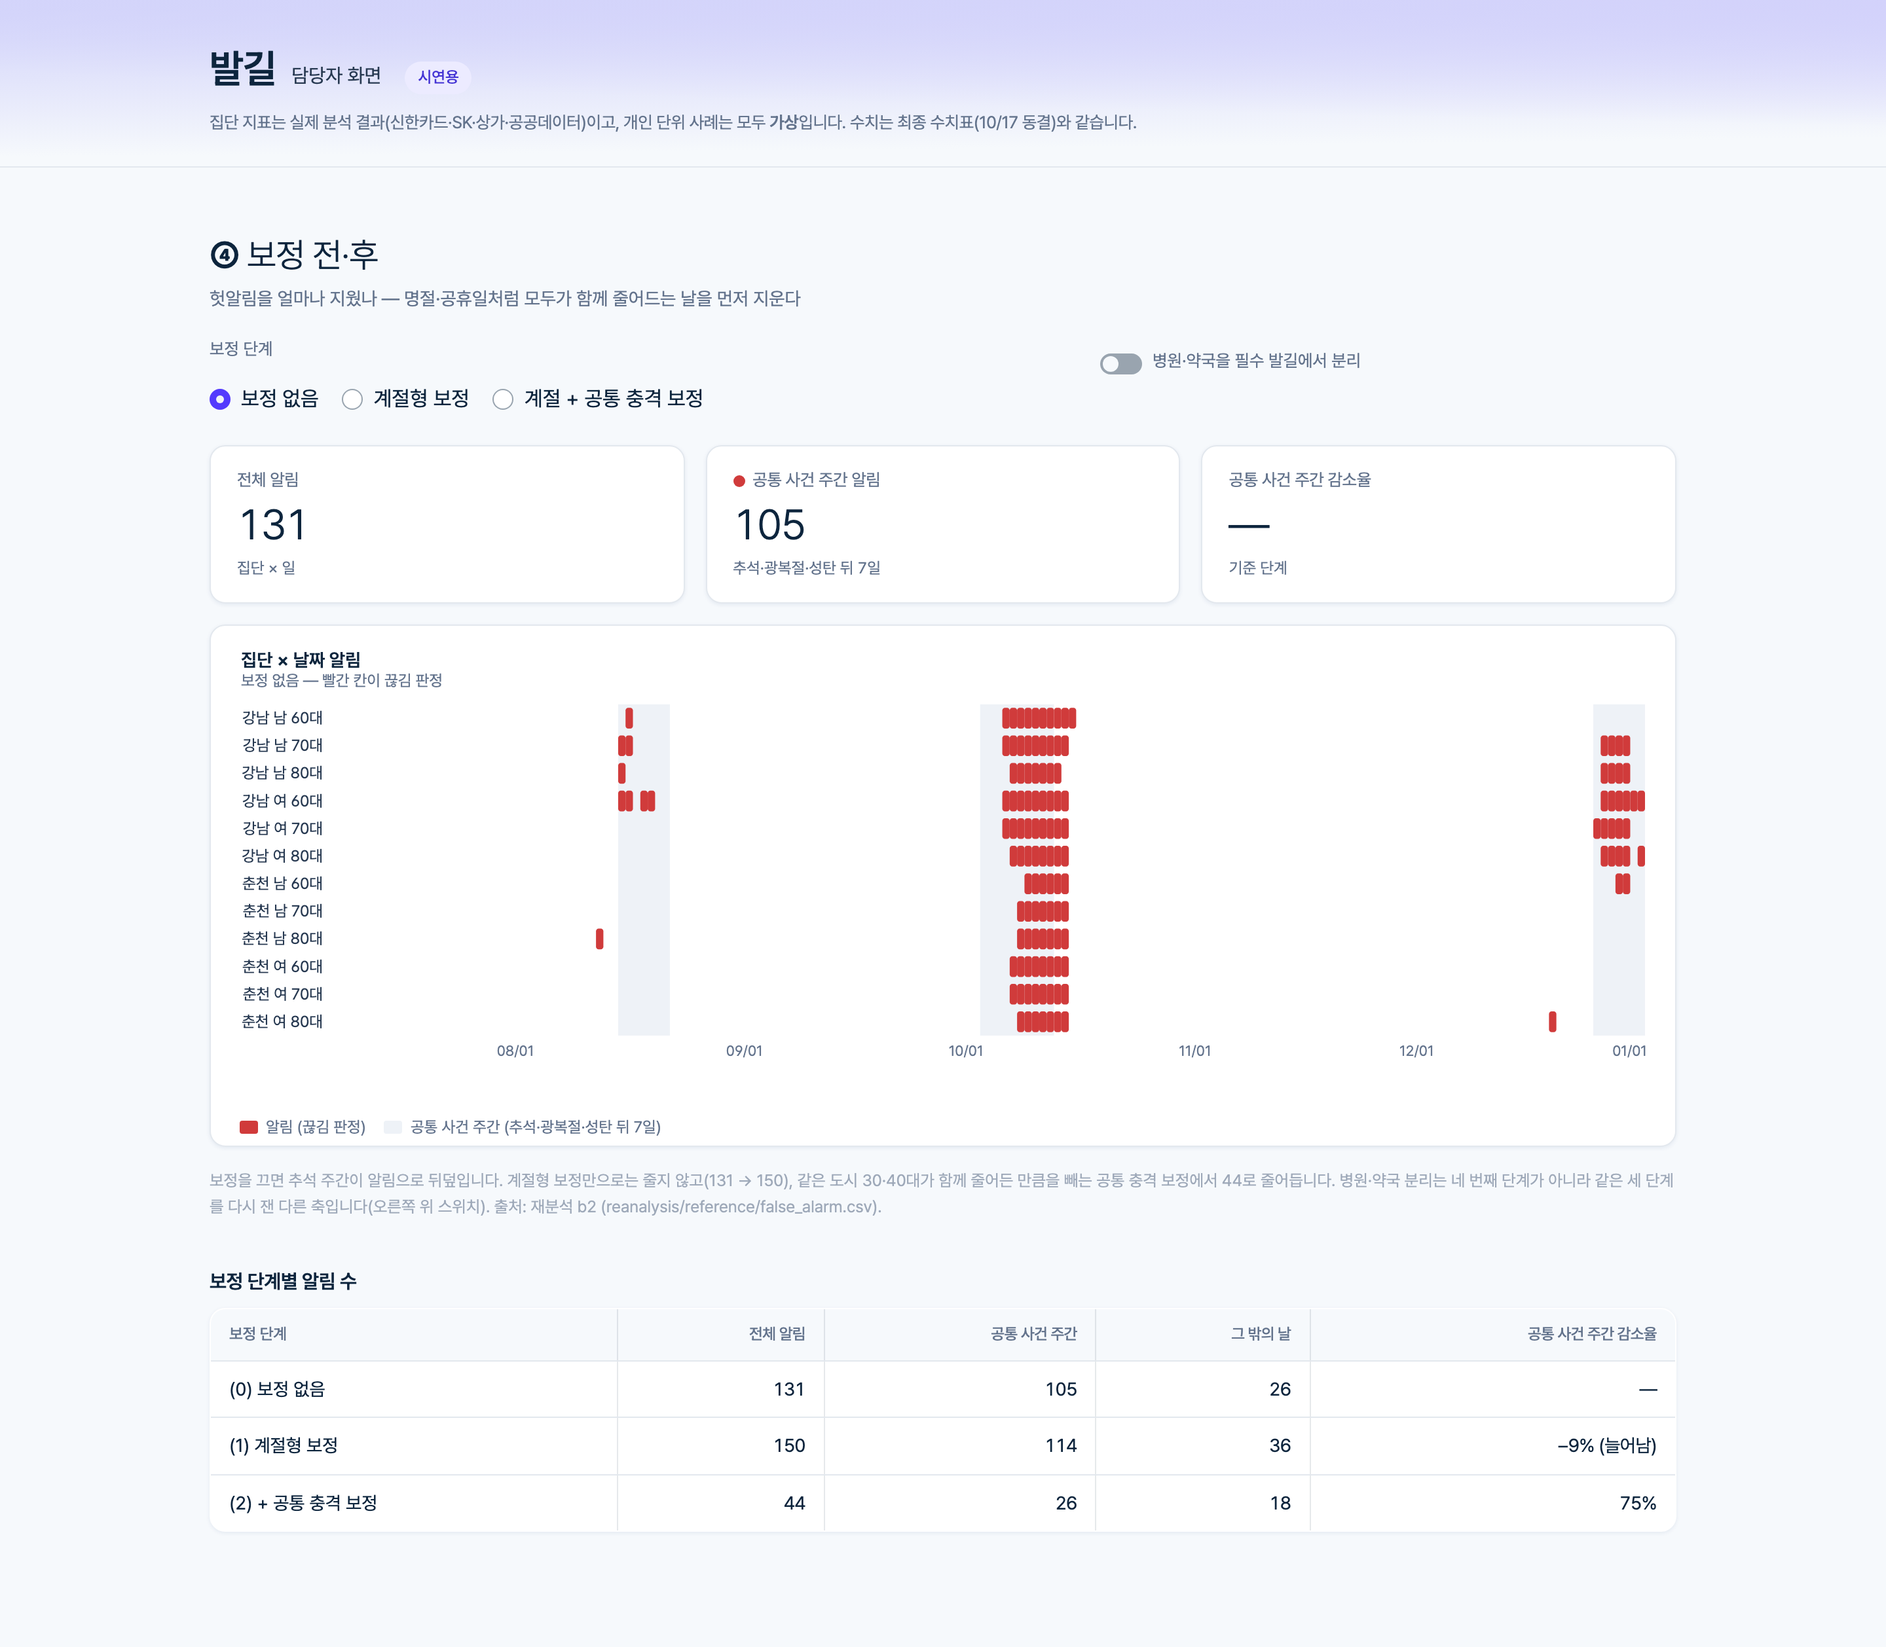
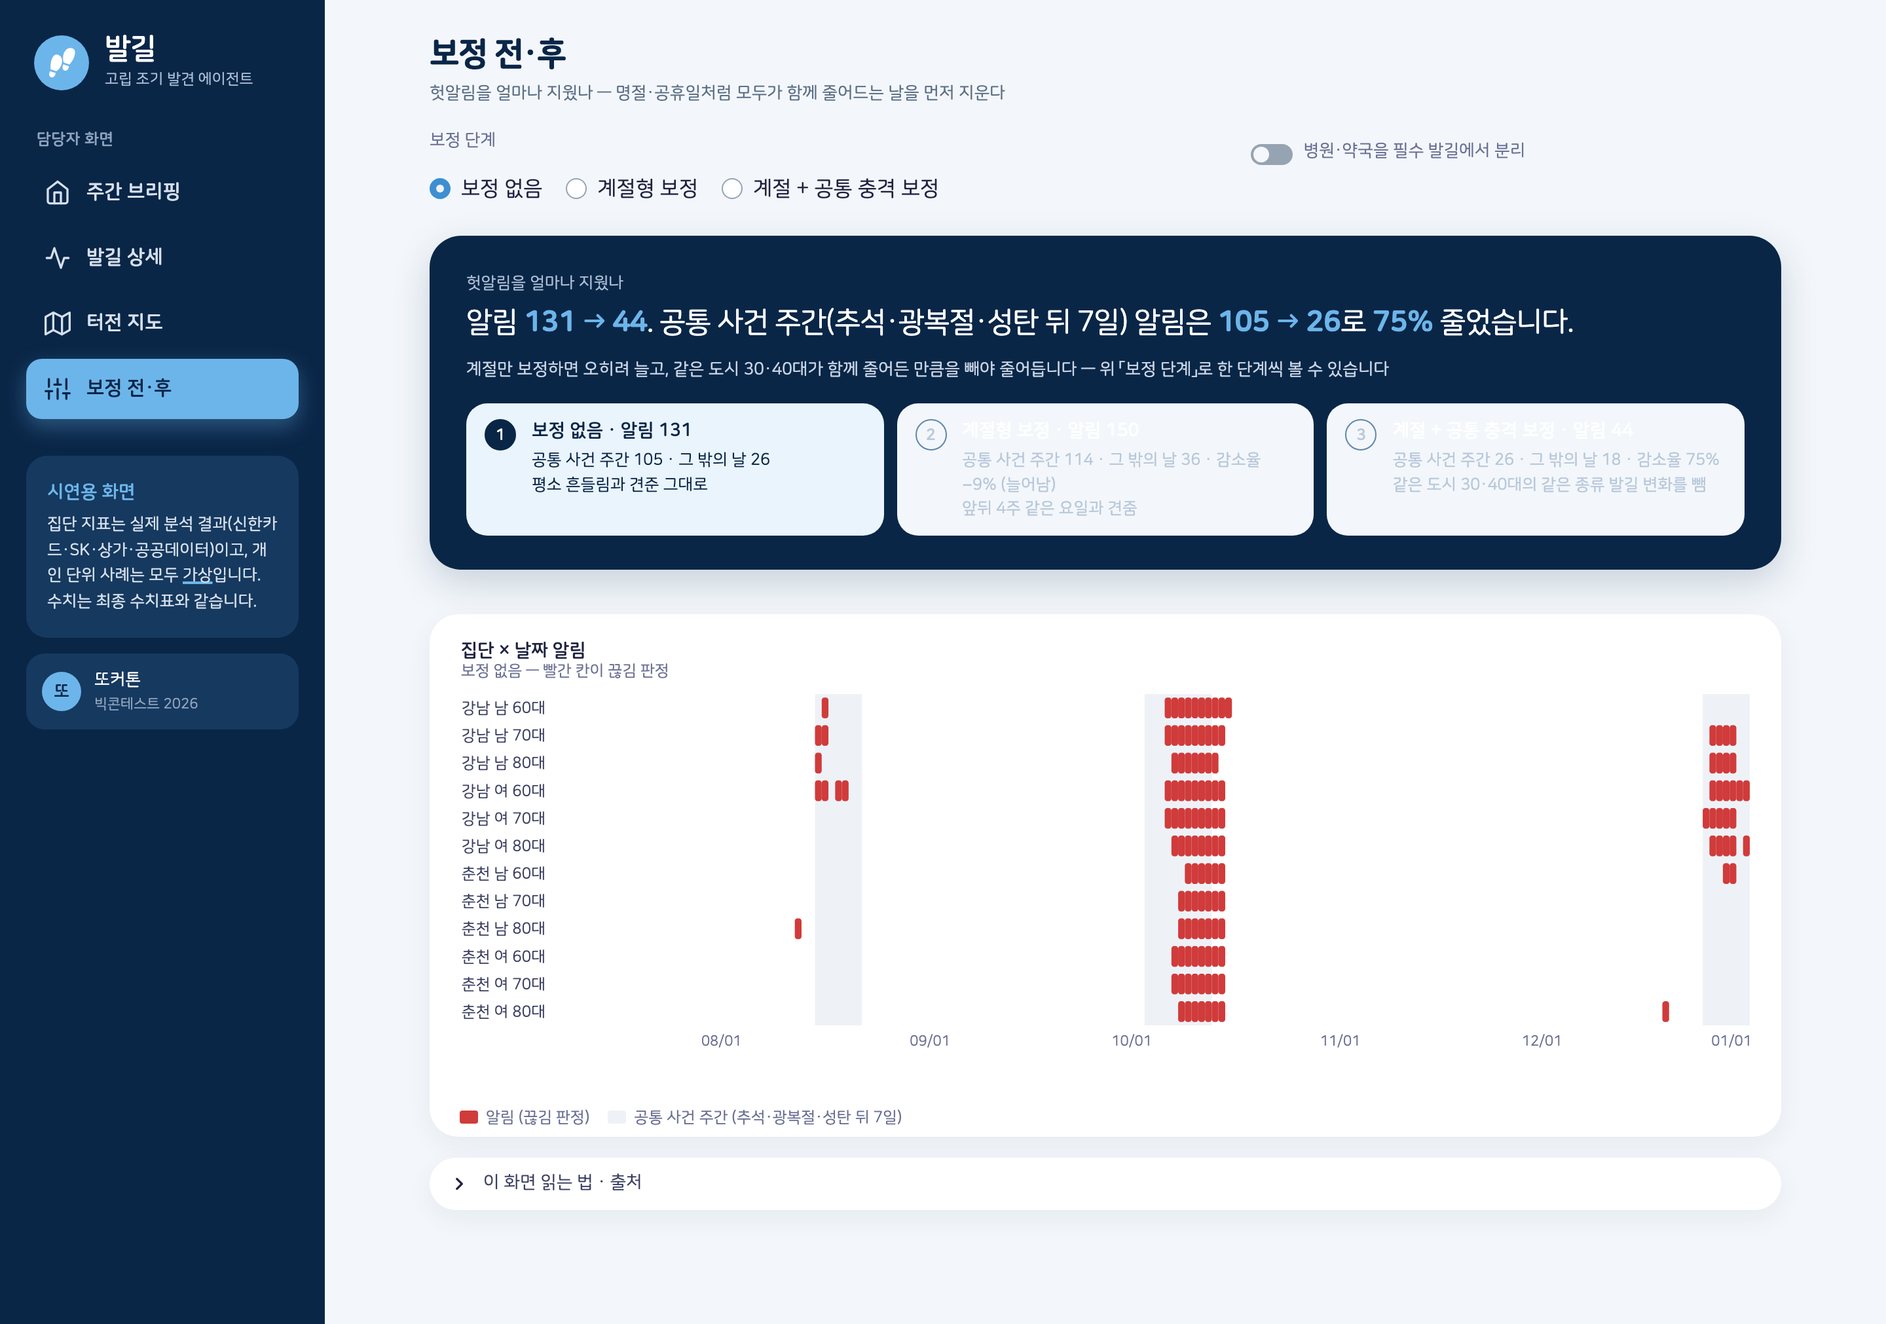
화면 색을 발표자료로 확정하고 나머지 테마 지우기 · 새 화면으로 캡처 다섯 장 다시 찍기 · 08절 화면 설명 맞추기
10/26 팀에서 「발표자료」 색으로 정했습니다. 크림 · 라일락 · 하늘 테마와 왼쪽 메뉴의 「화면 색」 전환을 지우고, 발표자료 색(DECK_CSS)을 늘 덮습니다.
reports/screens/*.png 다섯 장을 capture_screens.py로 다시 찍었습니다(1440px × 2배).
08절 8.2 표의 ① · ④ 설명과 21줄 「화면 ① 아래」를 새 배치(답 카드 → 타일 → 먼저 확인할 사람 → 집단 신호판)에 맞췄습니다.

diff --git a/app/style.py b/app/style.py
@@ -311,10 +311,6 @@ div.st-key-card, div[class*="st-key-card"], .bg-board, .bg-tl, .bg-res, .bg-hero
 .bg-pill2 {{ border-color:{HAIRLINE}; border-radius:9999px; }}
 .bg-steps .bg-step {{ background:#faf6f2; border-color:{HAIRLINE}; border-radius:16px; }}
 .bg-steps .bg-step.on {{ background:{LAVENDER_SOFT}; border-color:#d9cffb; }}
-.bg-theme {{ margin-top:14px; display:flex; flex-wrap:wrap; align-items:center; gap:6px; font-size:12px; color:{MUTE}; padding:0 4px; }}
-.bg-theme span {{ flex-basis:100%; margin-bottom:2px; }}
-.bg-theme a {{ white-space:nowrap; padding:4px 10px; border-radius:9999px; border:1px solid {HAIRLINE}; color:{INK_2} !important; text-decoration:none !important; }}
-.bg-theme a.on {{ background:{PEACH}; border-color:transparent; color:#fff !important; }}
 </style>
 """
 
@@ -424,18 +420,14 @@ def trail_svg() -> str:
     return (f'<svg viewBox="0 0 220 150" width="170"><circle cx="140" cy="78" r="62" fill="{PRIMARY_SOFT_BG}"/>{g}</svg>')
 
 
-def sidebar(active: int, items: list[tuple[str, str]], theme: str = "") -> str:
-    t = f"&theme={theme}"
-    nav = "".join(f'<a href="?screen={i}{t}" target="_self" class="{"on" if i == active else ""}">{icon(ic)}{esc(t_)}</a>'
+def sidebar(active: int, items: list[tuple[str, str]]) -> str:
+    nav = "".join(f'<a href="?screen={i}" target="_self" class="{"on" if i == active else ""}">{icon(ic)}{esc(t_)}</a>'
                   for i, (t_, ic) in enumerate(items, 1))
-    sw = "".join(f'<a href="?screen={active}&theme={k}" target="_self" class="{"on" if k == theme else ""}">{v}</a>'
-                 for k, v in THEMES.items())
     return (f'<div class="bg-logo">{logo_svg(42)}<div><div class="t">발길</div><div class="s">고립 조기 발견 에이전트</div></div></div>'
             f'<div class="bg-navh">담당자 화면</div><div class="bg-nav">{nav}</div>'
             f'<div class="bg-side-note"><b>시연용 화면</b>집단 지표는 실제 분석 결과(신한카드·SK·상가·공공데이터)이고, '
             f'개인 단위 사례는 모두 <u>가상</u>입니다. 수치는 최종 수치표와 같습니다.</div>'
-            f'<div class="bg-team"><i>또</i><div>또커톤<span>빅콘테스트 2026</span></div></div>'
-            f'<div class="bg-theme"><span>화면 색</span>{sw}</div>')
+            f'<div class="bg-team"><i>또</i><div>또커톤<span>빅콘테스트 2026</span></div></div>')
 
 
 def topbar(title: str, sub: str, pill: str = "", pill_icon: str = "calendar") -> str:
@@ -474,67 +466,8 @@ def timeline(title: str, sub: str, items: list[tuple[str, str, bool]]) -> str:
     return f"<div class='bg-tl'><div class='h'>{esc(title)}</div><div class='hs'>{esc(sub)}</div>{its}</div>"
 
 
-# ── 테마 둘 — 팀이 고르기 전까지 나란히 본다 (?theme=lilac) ─────────────
-THEMES = {"deck": "발표자료", "cream": "크림", "lilac": "라일락", "sky": "하늘"}   # 맨 앞이 기본
-_LILAC = dict(bg="#f4f4f8", card="#ffffff", line="#ebebf2", primary="#7a6ff0", deep="#5f54e0", soft="#efedfd",
-              tiles=["#958cf2", "#ee8f84", "#efa86a", "#59bd8c"])   # 라일락 · 연어 · 살구 · 민트 (흰 글자 3:1 안팎)
-LILAC_TEMPLATE = ("""<style>
-.stApp {{ background:{bg} !important; }}
-[data-testid="stSidebar"] {{ background:{card} !important; border-right:1px solid {line} !important; }}
-.bg-logo svg circle, .bg-logo svg rect {{ fill:{primary} !important; }}
-.bg-logo .t {{ color:#22213a; }}
-.bg-nav a {{ color:#6b6a85 !important; }}
-.bg-nav a:hover {{ background:{bg}; color:#22213a !important; }}
-.bg-nav a.on {{ background:{soft} !important; color:{primary} !important; box-shadow:none !important; }}
-.bg-side-note {{ background:{primary} !important; color:#fff !important; border:none !important; border-radius:18px !important; }}
-.bg-side-note b {{ color:#fff !important; }} .bg-side-note u {{ text-decoration-color:#fff !important; }}
-.bg-team {{ background:{card} !important; border:1px solid #d9d5fb !important; }}
-.bg-team i {{ background:{soft} !important; color:{primary} !important; }}
-.bg-theme a.on {{ background:{primary} !important; color:#fff !important; }}
-
-div.st-key-card, div[class*="st-key-card"], .bg-board, .bg-tl, .bg-res, .bg-heroc, .bg-table, [data-testid="stExpander"] details {{
-  background:{card} !important; border-radius:18px !important; box-shadow: rgba(40,40,90,0.06) 0 4px 16px !important; }}
-.bg-heroc {{ background:{card} !important; }}
-.bg-heroc .t b {{ color:{primary} !important; }}
-.bg-heroc .art svg circle {{ fill:{soft} !important; }}
-.bg-table th {{ background:#f7f7fb !important; }}
-
-.bg-kpi {{ display:grid !important; grid-template-columns:40px minmax(0, 1fr); grid-template-rows:auto auto auto;
-  column-gap:14px; row-gap:0; align-items:center; align-content:center; justify-items:start; text-align:left;
-  border:none !important; box-shadow:none !important;
-  border-radius:18px !important; padding:16px 14px !important; column-gap:12px !important; }}
-.bg-kpi .ic {{ grid-column:1; grid-row:1 / span 3; width:40px !important; height:40px !important; border-radius:50% !important;
-  margin:0 !important; background:rgba(255,255,255,.22) !important; background-image:none !important; box-shadow:none !important;
-  border:2px solid rgba(255,255,255,.85); }}
-.bg-kpi .v {{ grid-column:2; grid-row:1; }}
-.bg-kpi .l {{ grid-column:2; grid-row:2; margin:3px 0 0 !important; white-space:normal !important; word-break:keep-all; line-height:1.3; }}
-.bg-kpi .d {{ grid-column:2; grid-row:3; }}
-.bg-kpi .v, .bg-kpi .v small, .bg-kpi .l, .bg-kpi .d {{ color:#fff !important; }}
-.bg-kpi .v {{ font-size:26px !important; }}
-.bg-kpi .l {{ margin:2px 0 0 !important; }}
-.bg-kpi .d {{ opacity:.92; }}
-""" + "".join(f".bg-kpis .bg-kpi:nth-child({i + 1}) {{{{ background:{c} !important; }}}}\n" for i, c in enumerate(_LILAC["tiles"])) + """
-.bg-tl .box {{ background:#f7f7fb !important; border-left-color:{line} !important; }}
-.bg-tl .it.on .box {{ background:{soft} !important; border-left-color:{primary} !important; }}
-.bg-tl .it.on .n {{ background:{primary} !important; border-color:{primary} !important; }}
-.bg-tile {{ background:#f7f7fb; }}
-.bg-chip {{ background:#f7f7fb !important; border-color:{line} !important; }}
-.bg-steps .bg-step {{ background:#f7f7fb !important; border-color:{line} !important; }}
-.bg-steps .bg-step.on {{ background:{soft} !important; border-color:#d9d5fb !important; }}
-.bg-steps .bg-step.on .n {{ background:{primary} !important; border-color:{primary} !important; }}
-[data-testid="stSlider"] [role="slider"] {{ background:{primary} !important; }}
-</style>""")
-LILAC_CSS = LILAC_TEMPLATE.format(**_LILAC)
-# 「하늘」 — 라일락에서 연보라 부분만 연하늘(#d3e4f5)로. 그 위의 보라 글자 · 아이콘 · 첫 타일도 같은 계열 하늘로 맞춘다
-_SKY = dict(_LILAC, primary="#4f8fcf", deep="#3a78b8", soft="#d3e4f5",
-            tiles=["#5b9bd5"] + _LILAC["tiles"][1:])
-# 타일 색은 틀에 라일락 값으로 박혀 있어 첫 칸만 바꿔 끼운다
-SKY_CSS = (LILAC_TEMPLATE.format(**_SKY).replace(_LILAC["tiles"][0], _SKY["tiles"][0])
-           .replace("</style>", ".bg-heroc .art svg g {{ fill:{p} !important; }}\n</style>".format(p=_SKY["primary"])))
-
-
 # 발표자료(발길_발표자료_최종.pdf)와 같은 색 — 짙은 남색 · 하늘색 · 옅은 하늘색. 모양(둥근 모서리 · 옅은 그림자 ·
-# 둥근 글꼴 · 채운 타일)은 크림 · 라일락과 같게 두고 색만 바꾼다. 그라데이션은 쓰지 않는다
+# 둥근 글꼴 · 채운 타일)은 위 기본 틀을 그대로 두고 색만 덮는다(10/26 팀 확정). 그라데이션은 쓰지 않는다
 _DECK = dict(navy="#0a2647", navy2="#16395f", sky="#6cb5ea", sky_d="#3d8fd1", sky_m="#cfe5f7", pale="#eaf4fc",
              bg="#f3f7fb", line="#e1e9f2", ink="#0a2647", mute="#5d6f86")
 DECK_CSS = ("""<style>
@@ -550,9 +483,6 @@ DECK_CSS = ("""<style>
 .bg-side-note b {{ color:{sky} !important; }} .bg-side-note u {{ text-decoration-color:{sky} !important; }}
 .bg-team {{ background:{navy2} !important; border:none !important; color:#fff !important; }}
 .bg-team i {{ background:{sky} !important; color:{navy} !important; }} .bg-team span {{ color:#8ea3bd !important; }}
-.bg-theme {{ color:#8ea3bd !important; }}
-.bg-theme a {{ border-color:#2f5680 !important; color:#d5dfeb !important; }}
-.bg-theme a.on {{ background:{sky} !important; color:{navy} !important; border-color:{sky} !important; }}
 
 .bg-top .t, .bg-sec {{ color:{ink} !important; }}
 .bg-top .s, .bg-sec span {{ color:{mute} !important; }}
@@ -572,7 +502,7 @@ div.st-key-card, div[class*="st-key-card"], .bg-board, .bg-tl, .bg-res, .bg-tabl
 .bg-heroc .bg-step.on .h, .bg-heroc .bg-step.on .d {{ color:{navy} !important; }}
 .bg-heroc .bg-step.on .n {{ background:{navy} !important; border-color:{navy} !important; color:#fff !important; }}
 
-/* 숫자 타일 — 라일락과 같은 꼴(왼쪽 아이콘 원 + 오른쪽 숫자), 색만 남색 · 하늘 · 옅은 하늘 */
+/* 숫자 타일 — 왼쪽 아이콘 원 + 오른쪽 숫자, 색은 남색 · 하늘 · 옅은 하늘 */
 .bg-kpi {{ display:grid !important; grid-template-columns:40px minmax(0, 1fr); grid-template-rows:auto auto auto;
   column-gap:12px !important; row-gap:0; align-items:center; align-content:center; justify-items:start; text-align:left;
   border:none !important; box-shadow:none !important; border-radius:20px !important; padding:16px 14px !important; }}

diff --git a/app/balgil_app.py b/app/balgil_app.py
@@ -833,10 +833,7 @@ SCREENS = [("주간 브리핑", "home", screen_briefing), ("발길 상세", "pul
            ("터전 지도", "map", screen_map), ("보정 전·후", "sliders", screen_correction)]
 q = st.query_params.get("screen", "1")  # ?screen=1~4 — 왼쪽 메뉴도 이 주소로 간다(캡처·데모와 같은 길)
 n = int(q) if q in {"1", "2", "3", "4"} else 1
-theme = st.query_params.get("theme", "deck")  # ?theme=deck|cream|lilac|sky — 팀이 고르기 전까지 나란히 본다
-theme = theme if theme in ui.THEMES else "deck"
-if theme != "cream":
-    st.html({"deck": ui.DECK_CSS, "lilac": ui.LILAC_CSS, "sky": ui.SKY_CSS}[theme])
+st.html(ui.DECK_CSS)  # 화면 색은 발표자료와 같게(10/26 팀 확정) — 기본 틀(style.CSS) 위에 색만 덮는다
 with st.sidebar:
-    html(ui.sidebar(n, [(t, ic) for t, ic, _ in SCREENS], theme))
+    html(ui.sidebar(n, [(t, ic) for t, ic, _ in SCREENS]))
 SCREENS[n - 1][2]()

diff --git a/docs/draft/08_시나리오화면.md b/docs/draft/08_시나리오화면.md
@@ -18,7 +18,7 @@
 
 **9시 10분 — 공통 사건인지 확인합니다.** 주무관은 연휴와 비를 확인하고, 이번 주는 **개별 전화 대신 집단을 지켜보기로** 합니다. 다음 주 브리핑에서 춘천이 여전히 빨강으로 남으면 그때 개인 단계로 내려갑니다. 판단은 사람이 하고, 에이전트는 근거를 붙여 두 길을 다 보여 줄 뿐입니다.
 
-**만약 공통 사건이 아니었다면 — 명부 교차.** 화면 ① 아래 「먼저 확인할 사람」 표가 끊긴 칸마다 가상 명부에서 **마지막 접촉이 가장 오래된 3명**을 올립니다. 춘천 여성 70대 칸의 근거는 이렇습니다.
+**만약 공통 사건이 아니었다면 — 명부 교차.** 화면 ①의 「먼저 확인할 사람」 목록이 끊긴 칸마다 가상 명부에서 **마지막 접촉이 가장 오래된 3명**을 올립니다. 춘천 여성 70대 칸의 근거는 이렇습니다.
 
 > **끊김(빨강) · 춘천 여 70대**
 > 〈양〉 유효 발길 수 **8.4** — 같은 도시·성 50대(10.2)의 **82%**.
@@ -70,14 +70,14 @@
 
 
 ## 8.2 화면 네 개
-화면은 Streamlit 하나에 탭 네 개입니다(`app/balgil_app.py`). **git에 있는 파일만 읽어서 원본 데이터 없이도 뜹니다.** `?screen=1`~`4`를 붙이면 그 화면만 열려 캡처에 씁니다.
+화면은 Streamlit 하나에 왼쪽 메뉴로 고르는 네 개입니다(`app/balgil_app.py`). 화면마다 맨 위 **답 카드** 한 줄과 숫자 타일이 먼저 오고, 근거 표는 그 아래 펼치는 칸에 둡니다. **git에 있는 파일만 읽어서 원본 데이터 없이도 뜹니다.** `?screen=1`~`4`를 붙이면 그 화면만 열려 캡처에 씁니다.
 
 | | 무엇을 보여 주나 | 어떤 판단을 돕나 | 읽는 파일 |
 |---|---|---|---|
-| **① 주간 브리핑** | 주 고르기(월~일, 지난 7일 창) → 확인 권고 집단 수와 지난주 대비, 빨강·주황 수, 보정 뒤 경보일. 12집단 신호표(끊긴 날 · 대면/필수 최저 · 날씨 가능 · 평소 닿던 업종 · 다음 행동). 그 아래 **먼저 확인할 사람**(가상 명부: 칸 인원 · 마지막 접촉 · 주소 동의 터전 순위 · 먼저 물을 창구 · 후보 수 · **물어볼 장소** — 본인 등록 장소, 없으면 그 동의 후보 장소, #77) | **이번 주 누구를 먼저 확인할까.** 동시 끊김이면 개인보다 공통 사건 먼저 | `agent_summary.csv` · `agent_groups.csv` · `agent_people.csv` (`agent.py` 판정을 매주 일요일로 돌린 것) |
+| **① 주간 브리핑** | 주 고르기(월~일, 지난 7일 창) → **답 카드**(이번 주 한 줄과 오늘 할 일 세 단계) → 숫자 타일(확인 권고 집단 수와 지난주 대비, 빨강·주황 수, 보정 뒤 경보일). 그 아래 **먼저 확인할 사람**(마지막 접촉이 오래된 순 몇 줄, 펼치면 전체 — 가상 명부: 칸 인원 · 마지막 접촉 · 주소 동의 터전 순위 · 먼저 물을 창구 · 창구를 가른 비교(가게 ↔ 경로당·마을회관 × 3) · **물어볼 장소** — 본인 등록 장소, 없으면 그 동의 후보 장소, #77). 맨 아래 **12개 집단 신호판**(도시·성 × 연령, 펼치면 끊긴 날 · 대면/필수 최저 · 날씨 가능 · 평소 닿던 업종 · 다음 행동). 오른쪽에 방문 때 가져갈 복지서비스 · 봉사 일감 | **이번 주 누구를 먼저 확인할까.** 동시 끊김이면 개인보다 공통 사건 먼저 | `agent_summary.csv` · `agent_groups.csv` · `agent_people.csv` (`agent.py` 판정을 매주 일요일로 돌린 것) |
 | **② 발길 상세** | 한 집단의 양·질·연속성 주별 추이와 터전(그 집단 도시의 동), 모델 확률과 SHAP 기여 상위 6개, 근거 문장 | **왜 이 집단인가.** "양은 살아 있는데 질이 꺾였다"를 한 화면에서 읽음 | `weekly_panel.csv` · `shap_weekly.csv` · `dong_map.geojson` |
 | **③ 터전 지도** | 도시를 고르고 지표를 고르면 그 도시의 동(춘천 25 · 강남 22개)이 칠해지고, 경로당·도서관 점이 겹침. 기본 지표 **대응 (공급 × 필요)**는 1순위·형평·연결·유지 네 칸으로 칠하고, 옆에 도달 효율 카드 · 공급 × 필요 산점도 · 「먼저 둘 동」 표(공급 부족 동). 다른 세 지표(통신 터전점수 · 60세+ 천 명당 체류형 점포 · 60세+ 천 명당 경로당·마을회관)는 그 지표가 낮은 동 5곳 | **어느 동에 닿을 곳이 없나, 어디에 먼저 둘까.** 사람이 아니라 동 단위 자원 배치 | `dong_map.geojson` · `facilities.csv` · `dong_priority.csv` · `reach_efficiency.csv` |
-| **④ 보정 전·후** | 보정 단계(없음 / 계절형 / + 공통 충격)를 바꾸면 집단 × 날짜 알림 칸이 바뀜. 단계별 알림 수 표(병원·약국 포함/분리) | **헛알림을 얼마나 지웠나.** 추석 주간이 알림으로 덮이는 것과 지워지는 것 | `break_daily.csv` · `false_alarm.csv` (재분석 reference) |
+| **④ 보정 전·후** | 보정 단계(없음 / 계절형 / + 공통 충격)를 바꾸면 집단 × 날짜 알림 칸이 바뀜. 단계별 알림 수는 답 카드의 세 칸, 병원·약국 분리는 오른쪽 위 스위치 | **헛알림을 얼마나 지웠나.** 추석 주간이 알림으로 덮이는 것과 지워지는 것 | `break_daily.csv` · `false_alarm.csv` (재분석 reference) |
 
 ![그림 8-1: 화면 ① 주간 브리핑 — 10/06~10/12 주, 춘천 6집단 동시 빨강과 「먼저 확인할 사람」 표](../../reports/screens/screen1.png)
 
